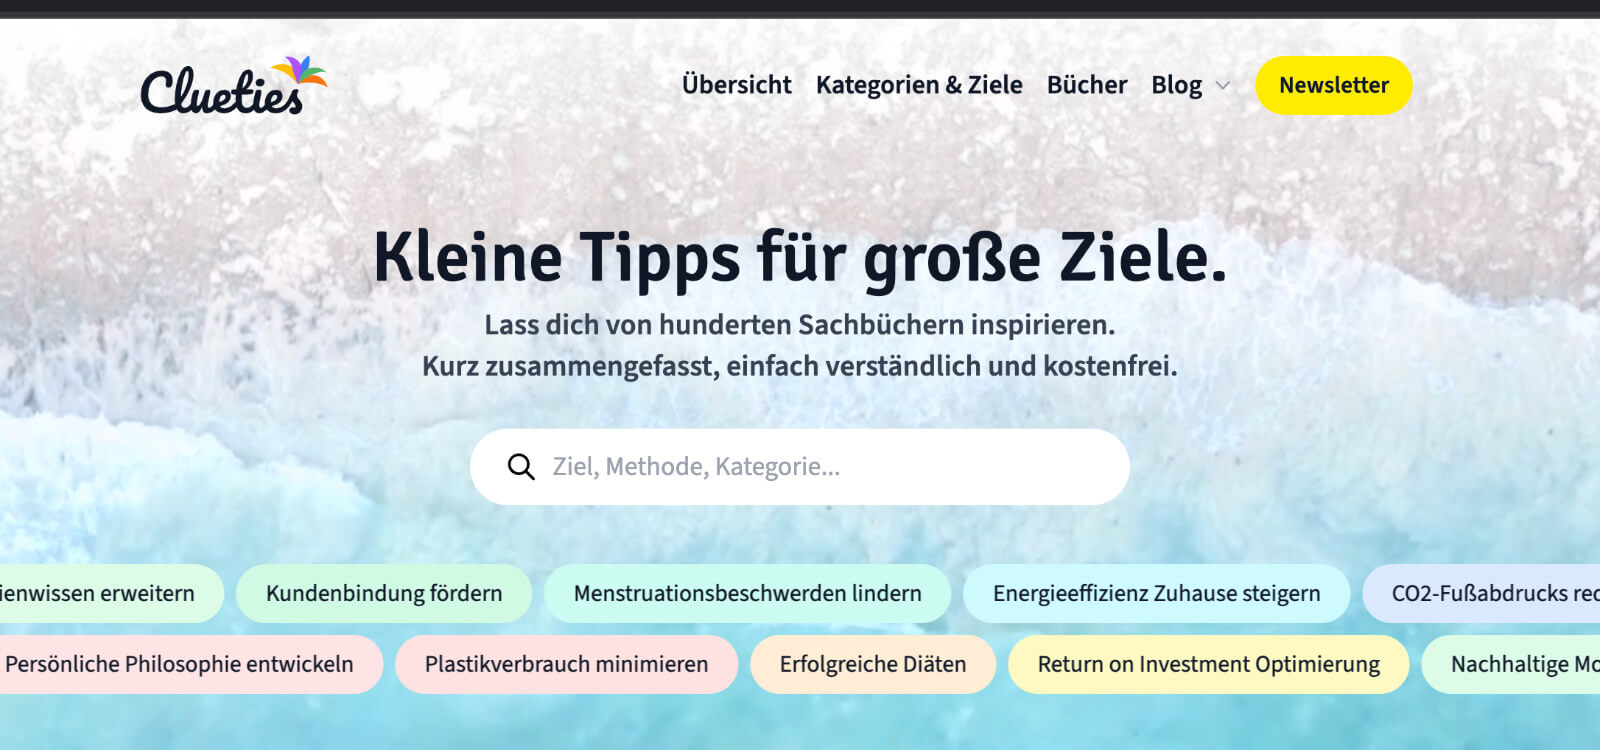
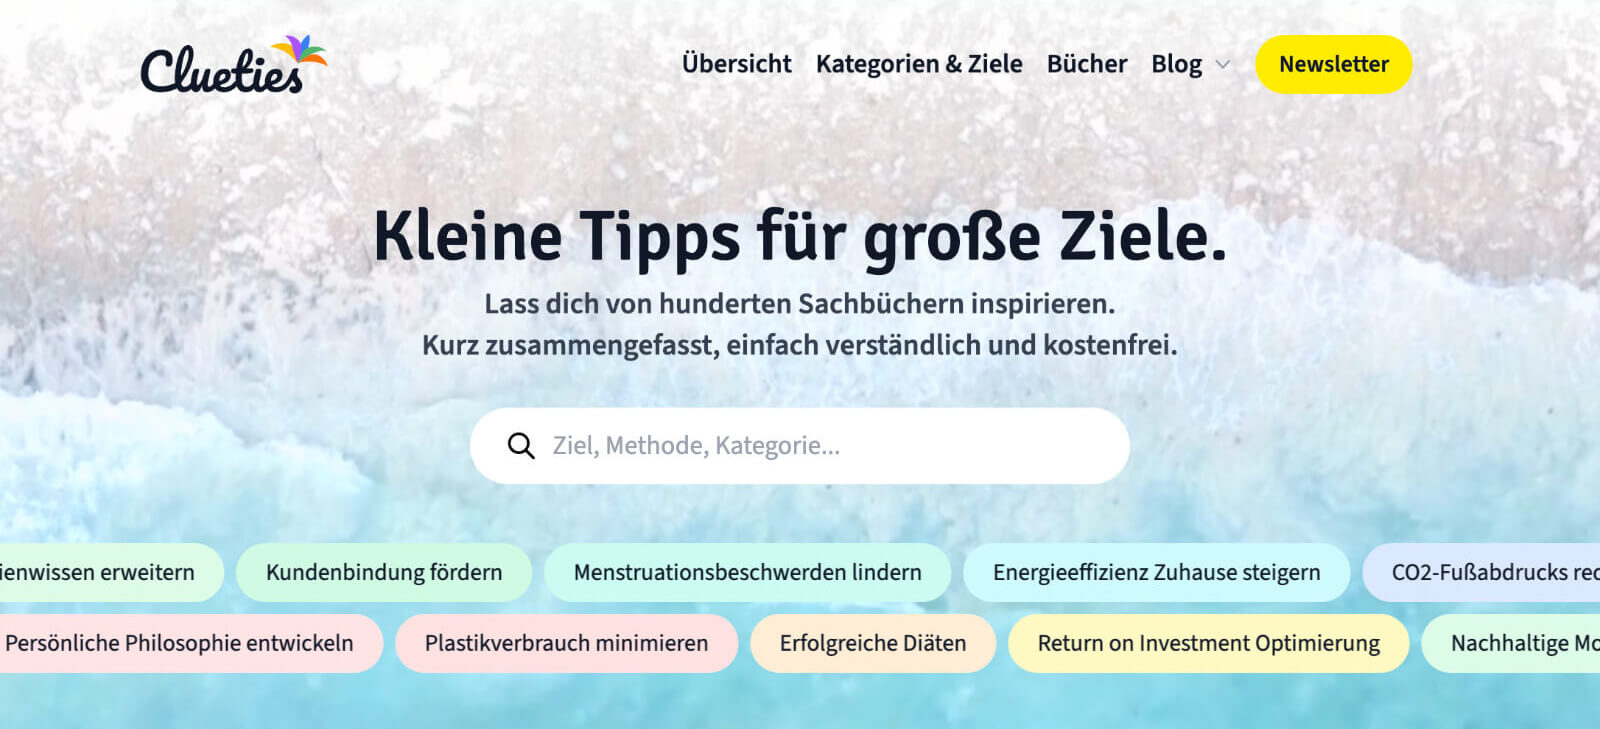
add cookie notice, adj colors

diff --git a/components/Footer.tsx b/components/Footer.tsx
@@ -6,17 +6,19 @@ export default function Footer() {
   return (
     <footer>
       <div className="mt-16 flex flex-col items-center">
-        <div className="mb-3 flex space-x-4">
+        <div className="mb-3 flex items-center space-x-4">
           <SocialIcon kind="mail" href={`mailto:${siteMetadata.email}`} size={6} />
-          <SocialIcon kind="github" href={siteMetadata.github} size={6} />
-          <SocialIcon kind="linkedin" href={siteMetadata.linkedin} size={6} />
+          <SocialIcon kind="github" href={siteMetadata.github} size={5} />
+          <SocialIcon kind="linkedin" href={siteMetadata.linkedin} size={5} />
         </div>
-        <div className="mb-2 flex space-x-2 text-sm text-gray-500 dark:text-gray-400">
-          <div>{siteMetadata.author}</div>
-          <div>{` • `}</div>
-          <div>{`© ${new Date().getFullYear()}`}</div>
-          <div>{` • `}</div>
+        <div className="mb-2 space-x-2 text-center text-sm text-gray-500 dark:text-gray-400 md:flex">
           <Link href="/">{siteMetadata.title}</Link>
+          <div>{` • `}</div>
+          <Link href="/imprint">Imprint</Link>
+          <div>{` • `}</div>
+          <div>
+            {siteMetadata.author} {`© ${new Date().getFullYear()}`}
+          </div>
         </div>
       </div>
     </footer>

diff --git a/layouts/AuthorLayout.tsx b/layouts/AuthorLayout.tsx
@@ -30,14 +30,13 @@ export default function AuthorLayout({ children, content }: Props) {
                 className="h-48 w-48 rounded-full"
               />
             )}
-            <h3 className="pb-2 pt-4 text-2xl font-bold leading-8 tracking-tight">{name}</h3>
-            <div className="text-gray-500 dark:text-gray-400">{occupation}</div>
+            <span className="pb-2 pt-4 text-2xl font-bold leading-8 tracking-tight">{name}</span>
+            <h2 className="text-gray-500 dark:text-gray-400">{occupation}</h2>
             <div className="text-gray-500 dark:text-gray-400">{company}</div>
-            <div className="flex space-x-3 pt-6">
-              <SocialIcon kind="mail" href={`mailto:${email}`} />
-              <SocialIcon kind="github" href={github} />
-              <SocialIcon kind="linkedin" href={linkedin} />
-              <SocialIcon kind="twitter" href={twitter} />
+            <div className="flex items-center space-x-3 pt-4">
+              <SocialIcon kind="mail" href={`mailto:${email}`} size={6} />
+              <SocialIcon kind="github" href={github} size={5} />
+              <SocialIcon kind="linkedin" href={linkedin} size={5} />
             </div>
           </div>
           <div className="prose max-w-none pb-8 pt-8 dark:prose-invert xl:col-span-2">

diff --git a/app/imprint/page.tsx b/app/imprint/page.tsx
@@ -1,0 +1,38 @@
+export default function Imprint() {
+  return (
+    <div>
+      <div className="space-y-2 pb-8 pt-6 md:space-y-5">
+        <h1 className="text-5xl font-bold  tracking-tight text-gray-900 dark:text-gray-100 md:text-6xl">
+          Imprint
+        </h1>
+      </div>
+      <div className="prose dark:prose-invert">
+        <p>
+          Castanets OÜ
+          <br />
+          Harju maakond,
+          <br />
+          Ahtri tn 12,10151 Tallinn
+        </p>
+
+        <p>Managing Director: Eugen Regehr</p>
+
+        <h2>Contact</h2>
+        <p>E-Mail: mail@eugen.work</p>
+
+        <h2>EU dispute resolution</h2>
+        <p>
+          The European Commission provides a platform for online dispute resolution (ODR):
+          https://ec.europa.eu/consumers/odr/. You can find my e-mail address in the legal notice
+          above.
+        </p>
+
+        <h2>Consumer dispute resolution / universal arbitration board</h2>
+        <p>
+          We are not willing or obliged to participate in dispute resolution proceedings before a
+          before a consumer arbitration board.
+        </p>
+      </div>
+    </div>
+  )
+}

diff --git a/components/CookieNotice.tsx b/components/CookieNotice.tsx
@@ -1,0 +1,33 @@
+'use client'
+
+import { useState } from 'react'
+
+const CookieNotice = () => {
+  const [showNotice, setShowNotice] = useState(true)
+
+  const handleClose = () => {
+    setShowNotice(false)
+  }
+
+  if (!showNotice) {
+    return null
+  }
+
+  return (
+    <div className="fixed bottom-2 z-20 flex w-full justify-center ">
+      <div className=" flex w-full max-w-lg items-center justify-between gap-2 rounded-sm bg-secondary-400 p-2 text-white dark:bg-secondary-950">
+        <p className="pl-2 text-sm font-bold text-secondary-950 dark:text-white">
+          This site is keeping it lean and is completely cookie-free.
+        </p>
+        <button
+          className="whitespace-nowrap rounded-sm bg-secondary-950 px-2 py-1 font-bold text-secondary-400 dark:bg-secondary-400 dark:text-secondary-950 "
+          onClick={handleClose}
+        >
+          Got it
+        </button>
+      </div>
+    </div>
+  )
+}
+
+export default CookieNotice

diff --git a/app/layout.tsx b/app/layout.tsx
@@ -10,6 +10,7 @@ import Footer from '@/components/Footer'
 import siteMetadata from '@/data/siteMetadata'
 import { ThemeProviders } from './theme-providers'
 import { Metadata } from 'next'
+import CookieNotice from '@/components/CookieNotice'
 
 const gudea = Gudea({
   variable: '--font-gudea',
@@ -85,6 +86,7 @@ export default function RootLayout({ children }: { children: React.ReactNode }) 
               <Footer />
             </div>
           </SectionContainer>
+          <CookieNotice />
         </ThemeProviders>
       </body>
     </html>

diff --git a/components/Card.tsx b/components/Card.tsx
@@ -30,7 +30,7 @@ const Card = ({ title, description, imgSrc, href, tags }) => (
       ))}
     <div className="p-6">
       {tags && tags.map((tag) => <Tag text={tag} key={tag} text_only />)}
-      <h2 className="mb-3 text-2xl font-bold leading-7 tracking-tight">
+      <h2 className="mb-3 text-2xl font-bold leading-7 tracking-tight text-black  hover:text-opacity-80 dark:text-white dark:hover:text-opacity-80">
         {href ? (
           <Link href={href} aria-label={`Link to ${title}`}>
             {title}

diff --git a/data/siteMetadata.js b/data/siteMetadata.js
@@ -8,7 +8,6 @@ const siteMetadata = {
   language: 'en-us',
   theme: 'system', // system, dark or light
   siteUrl: 'https://www.eugen.work',
-  siteLogo: '/static/images/logo.png',
   socialBanner: '/static/images/twitter-card.png',
   email: 'mail@eugen.work',
   github: 'https://github.com/eugenregehr',

diff --git a/tailwind.config.js b/tailwind.config.js
@@ -25,7 +25,7 @@ module.exports = {
         sans: ['var(--font-gudea)', ...fontFamily.sans],
       },
       colors: {
-        primary: colors.pink,
+        primary: colors.red,
         secondary: colors.teal,
         gray: colors.gray,
       },

diff --git a/README.md b/README.md
@@ -143,7 +143,7 @@ npx degit 'timlrx/tailwind-nextjs-starter-blog'
 ```
 
 2. Personalize `siteMetadata.js` (site related information)
-3. Modify the content security policy in `next.config.js` if you want to use
+3. Modify the content security policy in `next.config.js` if you want to use 
    other analytics provider or a commenting solution other than giscus.
 4. Personalize `authors/default.md` (main author)
 5. Modify `projectsData.ts`
